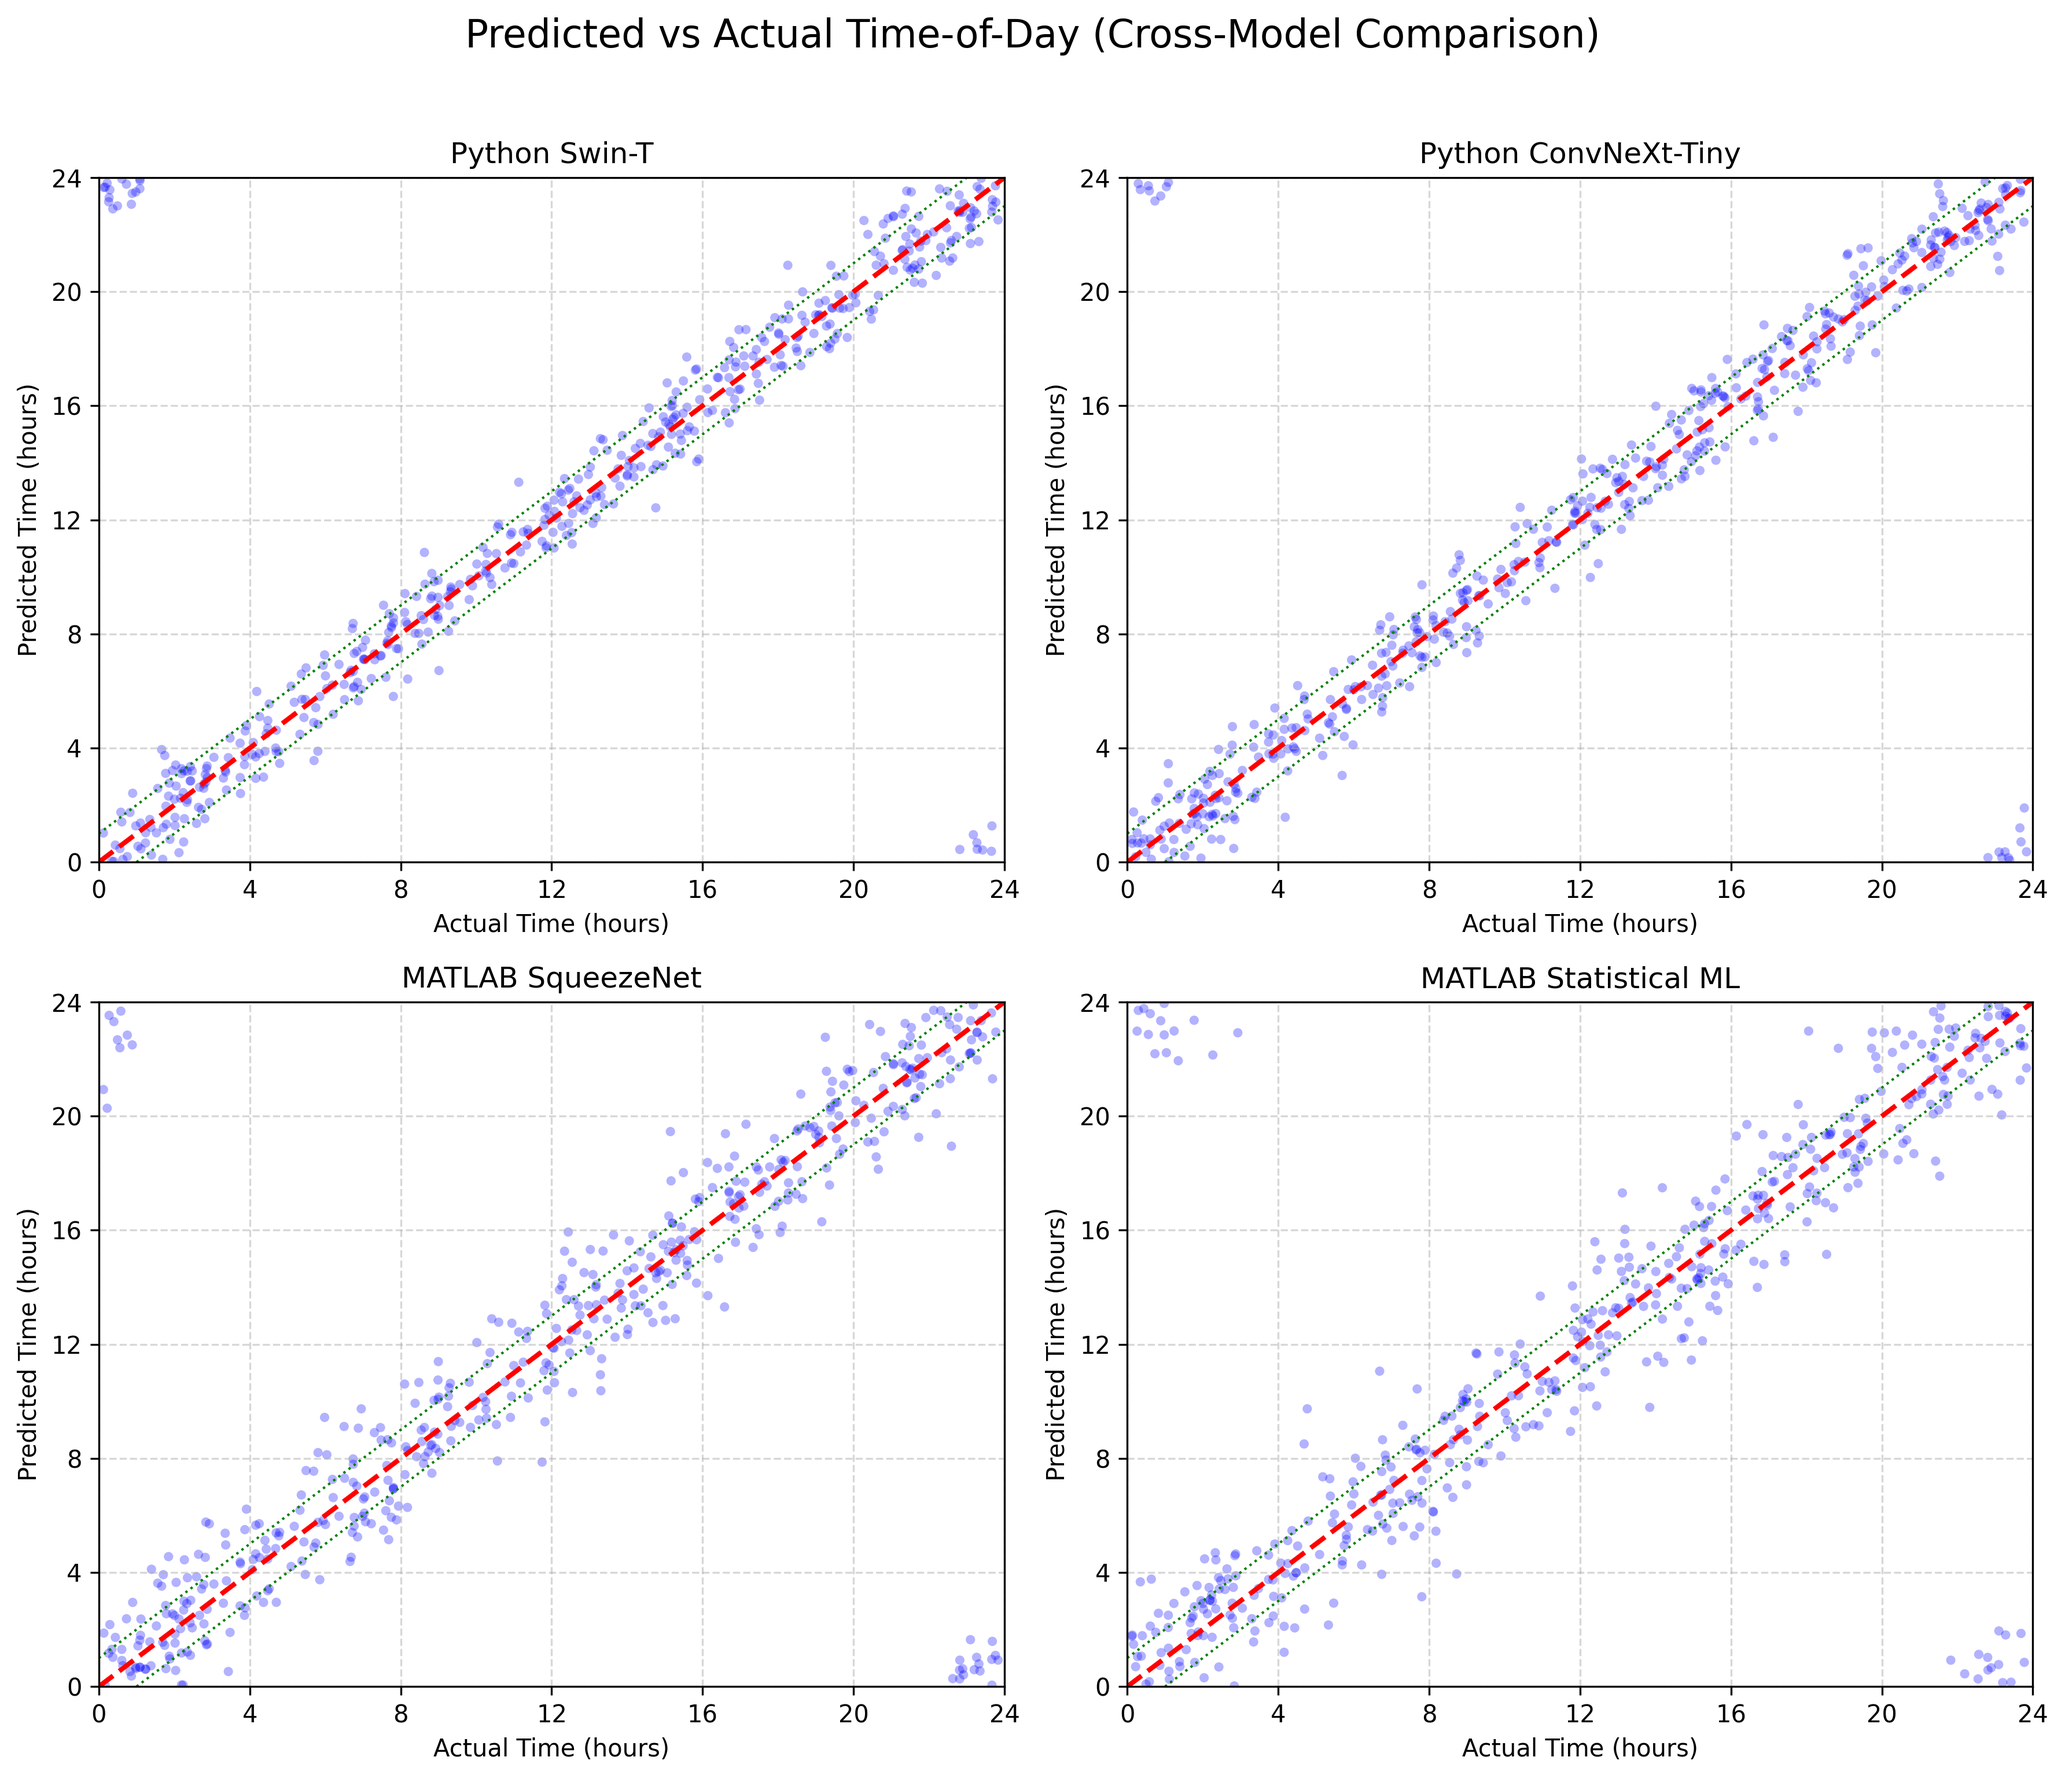
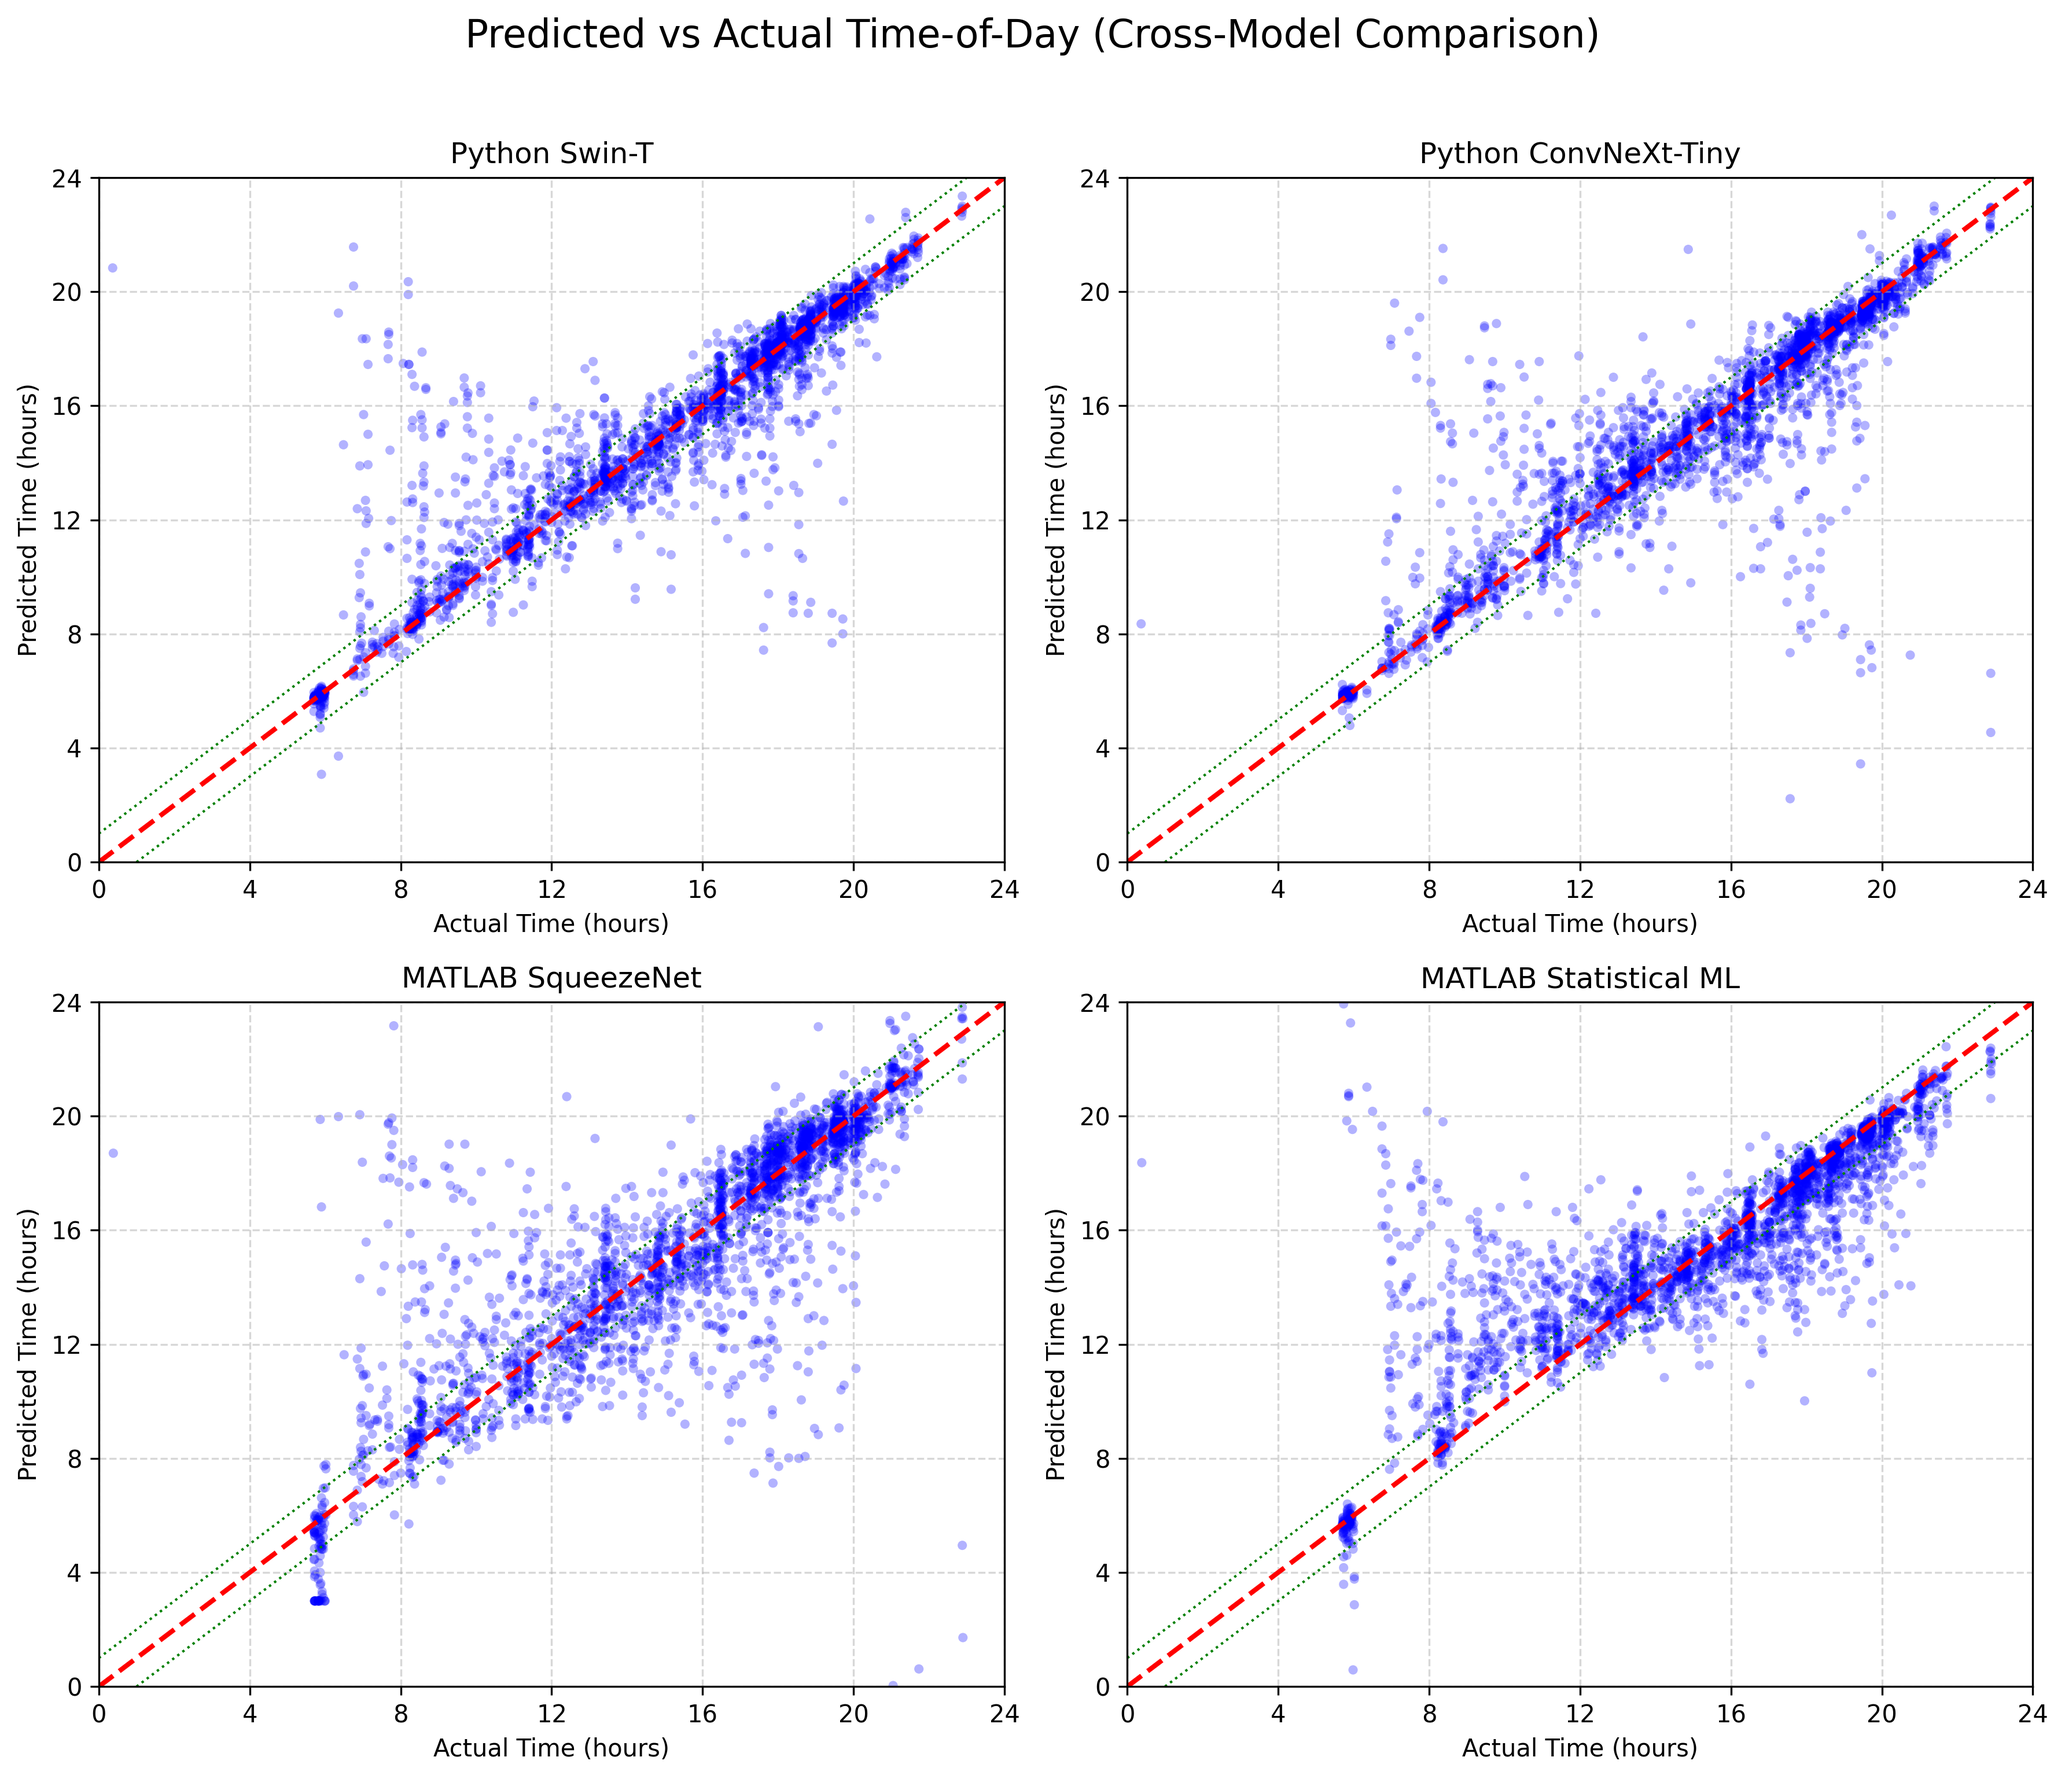
final fix

diff --git a/plot_4_model_scatter.py b/plot_4_model_scatter.py
@@ -1,38 +1,54 @@
 import os
 import matplotlib.pyplot as plt
 import numpy as np
+import json
+import csv
 
 os.makedirs('figures', exist_ok=True)
 
-# Generate dummy data - TODO: Load actual prediction data from your logs/CSVs
-np.random.seed(42)
-n_samples = 500
-actual_times = np.random.uniform(0, 24, n_samples)
+def load_python_data(file_path):
+    actuals = []
+    preds = []
+    with open(file_path, 'r') as f:
+        for line in f:
+            record = json.loads(line)
+            if record.get('type') == 'image':
+                actuals.append(record['actual_min'] / 60.0)
+                preds.append(record['pred_min'] / 60.0)
+    return np.array(actuals), np.array(preds)
 
-# Simulate predictions with varying noise based on model MAEs
-pred_swint = actual_times + np.random.normal(0, 52/60, n_samples)
-pred_convnext = actual_times + np.random.normal(0, 55/60, n_samples)
-pred_squeezenet = actual_times + np.random.normal(0, 81/60, n_samples)
-pred_statml = actual_times + np.random.normal(0, 95/60, n_samples)
+def load_matlab_data(file_path):
+    actuals = []
+    preds = []
+    with open(file_path, 'r') as f:
+        reader = csv.DictReader(f)
+        for row in reader:
+            def hhmm_to_hours(s):
+                parts = s.split(':')
+                return float(parts[0]) + float(parts[1]) / 60.0
+            actuals.append(hhmm_to_hours(row['Actual']))
+            preds.append(hhmm_to_hours(row['Guess']))
+    return np.array(actuals), np.array(preds)
 
-# Wrap around 24 hours
-for arr in [pred_swint, pred_convnext, pred_squeezenet, pred_statml]:
-    arr[arr < 0] += 24
-    arr[arr >= 24] -= 24
+# Load actual prediction data
+actual_swint, pred_swint = load_python_data('checkpoints/train_log_swin_t.jsonl')
+actual_convnext, pred_convnext = load_python_data('checkpoints/train_log_convnext_tiny.jsonl')
+actual_squeezenet, pred_squeezenet = load_matlab_data('matlab_method/results/cnn_results.csv')
+actual_statml, pred_statml = load_matlab_data('matlab_method/results/ml_results.csv')
 
 models = [
-    ('Python Swin-T', pred_swint),
-    ('Python ConvNeXt-Tiny', pred_convnext),
-    ('MATLAB SqueezeNet', pred_squeezenet),
-    ('MATLAB Statistical ML', pred_statml)
+    ('Python Swin-T', actual_swint, pred_swint),
+    ('Python ConvNeXt-Tiny', actual_convnext, pred_convnext),
+    ('MATLAB SqueezeNet', actual_squeezenet, pred_squeezenet),
+    ('MATLAB Statistical ML', actual_statml, pred_statml)
 ]
 
 fig, axes = plt.subplots(2, 2, figsize=(12, 10))
 axes = axes.flatten()
 
-for i, (name, preds) in enumerate(models):
+for i, (name, actuals, preds) in enumerate(models):
     ax = axes[i]
-    ax.scatter(actual_times, preds, alpha=0.3, s=15, c='blue', edgecolors='none')
+    ax.scatter(actuals, preds, alpha=0.3, s=15, c='blue', edgecolors='none')
     ax.plot([0, 24], [0, 24], 'r--', lw=2) # Perfect prediction line
     
     # Optional: plot the +/- 1 hour margin

diff --git a/Main.py b/Main.py
@@ -416,7 +416,8 @@ def load_checkpoint(path, model, optimizer=None, scheduler=None,
     if any(k.startswith("_orig_mod.") for k in state_dict):
         state_dict = {k.replace("_orig_mod.", "", 1): v for k, v in state_dict.items()}
     
-    model.load_state_dict(state_dict)
+    raw_model = model._orig_mod if hasattr(model, '_orig_mod') else model
+    raw_model.load_state_dict(state_dict)
     if optimizer and "optimizer" in ckpt:
         optimizer.load_state_dict(ckpt["optimizer"])
     if scheduler and "scheduler" in ckpt:
@@ -553,6 +554,14 @@ def train_fold(fold: int, device: torch.device) -> float:
         if is_best:
             best_val_mae = val_mae
             save_checkpoint(model, optimizer, scheduler, epoch + 1, val_mae, best_ckpt)
+
+    # Load best checkpoint and log image diagnostics
+    load_checkpoint(best_ckpt, model, device=device)
+    val_loss, val_mae, image_paths, pred_mins, actual_mins = evaluate_with_log(
+        model, val_loader, criterion, device, use_tta=cfg.TTA_ENABLED, tta_passes=cfg.TTA_FLIPS
+    )
+    _log_images(jsonl_path, image_paths, pred_mins, actual_mins)
+    log.info(f"Per-image diagnostics logged -> {jsonl_path}")
 
     log.info(f"Fold {fold} complete -- best val MAE: {best_val_mae:.2f} min ")
     return best_val_mae
